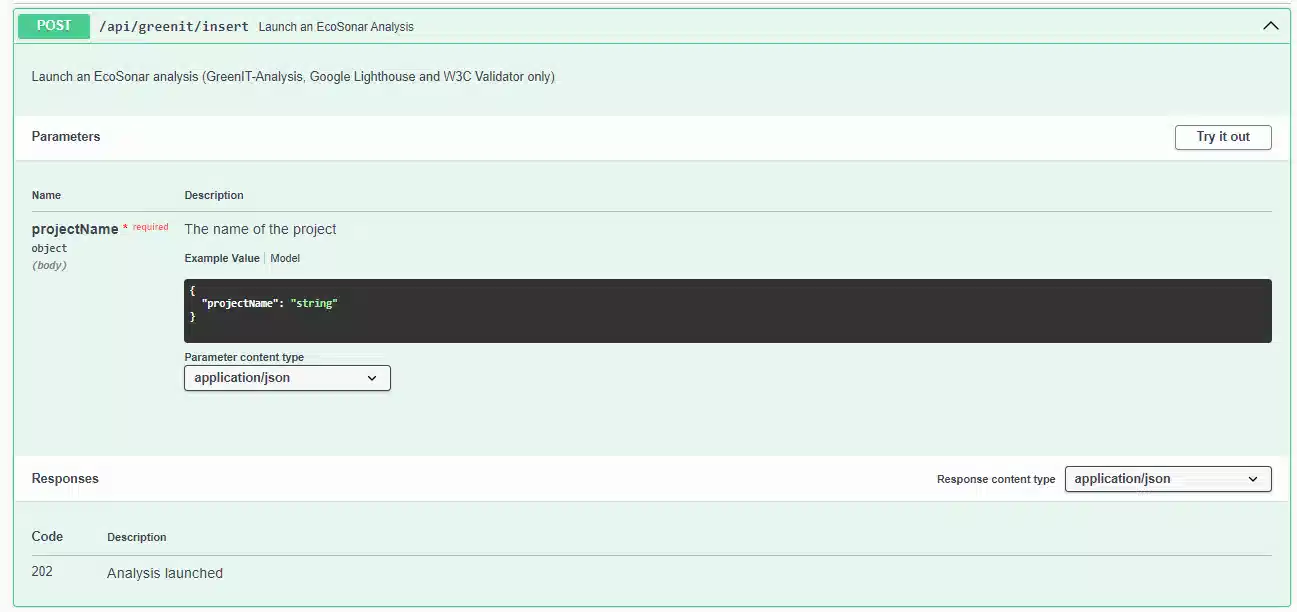
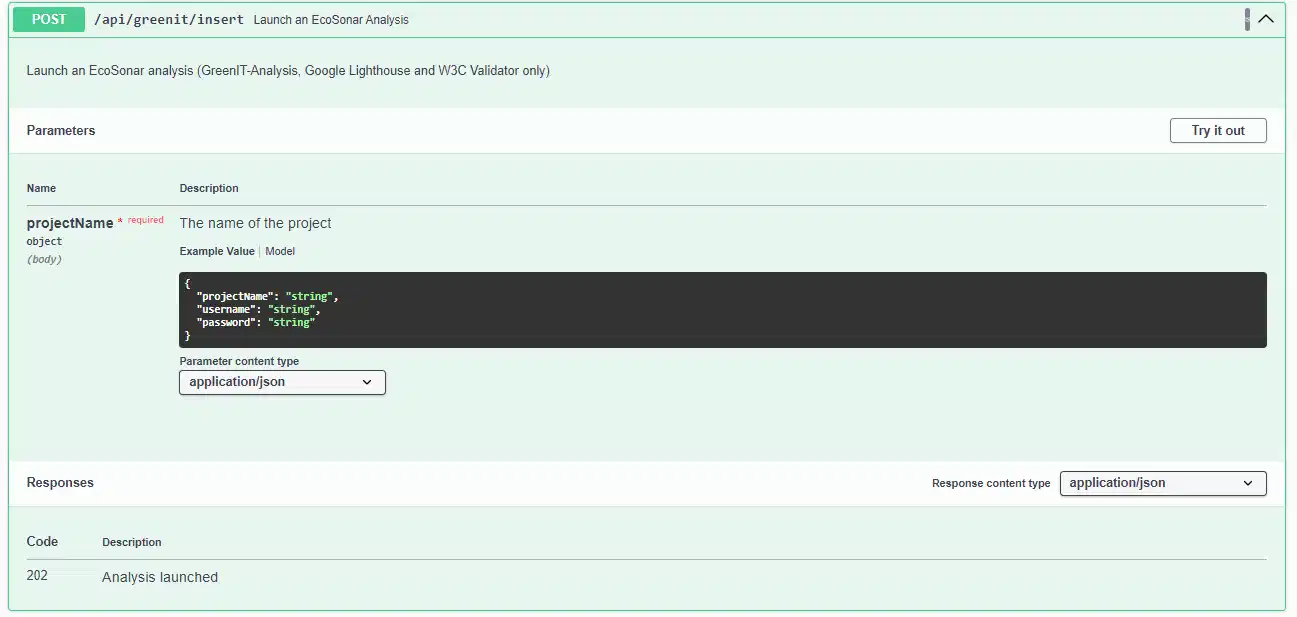
feat(3.5): add documentation related to v3.5

Changed region(s): [[0.0, 0.0, 1.0, 0.9935]]

diff --git a/USER_GUIDE.md b/USER_GUIDE.md
@@ -58,49 +58,18 @@ Thanks to a configuration popup, you can enter manually the pages to audit. This
 In order to audit pages that can be accessed only through an authentication service (intranet pages for example),
 you need to add authentication credentials into EcoSonar API to allow auditing dedicated pages.
 
-### When you have a simple login flow : username, password and click on a button
-
-#### EcoSonar V2.3 and below
-
-To implement that, you can create a YAML file login.yaml at the root of the folder `EcoSonar-API` and use the following format
-if the CSS selector of you input field is `input[name=username]` or `input[type=email]`, password field `input[name=password]`, `input[type=password]`, `input[id=password]` and button `button[type=submit]` :
-
-```
-authentication_url: authenticationPage
-username: yourUsername
-password: yourPassword
-```
-
-or if one of the CSS Selector does not match the default CSS Selectors :
-
-```
-authentication_url:authenticationPage
-username: yourUsername
-password: yourPassword
-loginButtonSelector: CSS_Selector_Button
-usernameSelector: CSS_Selector_Login
-passwordSelector: CSS_Selector_Password
-```
-
-##### CSS Selectors
-
-CSS Selectors are patterns in HTML code to apply some style (doc ). For exemple, to find the css selector of  loginButtonSelector:
-Go to the login page of your website
-Right click on the login button
-Select inspect
-Choose css selectors you want (class, type, name, id, ....)
-
-More Information :
-
-documentation: https://github.com/cnumr/GreenIT-Analysis-cli/blob/072987f7d501790d1a6ccc4af6ec06937b52eb13/README.md#commande
-code: https://github.com/cnumr/GreenIT-Analysis-cli/blob/072987f7d501790d1a6ccc4af6ec06937b52eb13/cli-core/analysis.js#L198
-
-#### EcoSonar V3.0 and above
-
 You can directly configure your login credentials at a project level in the API.
-Be careful your login credentials will then be saved into the database, please check with your security team if you are allowed to do so.
+You can use the Endpoint "Save Login For Project".
 
-You can use the Endpoint "Save Login and Proxy" and enter the following body:
+You can have the 3 following options to configure the authentication.
+For each option, according to your security requirements, you can choose to either set the flow to login with the password and username in clear in the database. Or you can set the username and password only when analysing a project or crawling the website.
+
+![EcoSonar Authentication config](./images/ecosonar-configure-auth.webp)
+
+### When you have a simple login flow : username, password and click on a button with the CSS Selectors identified
+
+
+if the CSS selector of you input field is `input[name=username]` or `input[type=email]`, password field `input[name=password]`, `input[type=password]`, `input[id=password]` and button `button[type=submit]` :
 
 ```
 {
@@ -112,7 +81,9 @@ You can use the Endpoint "Save Login and Proxy" and enter the following body:
 }
 ```
 
-or
+`username`and `password` are optional and can be set only if it is allowed to save them in clear in database.
+
+### When you have a simple login flow : username, password and click on a button with not identified CSS Selectors
 
 ```
 {
@@ -127,20 +98,22 @@ or
 }
 ```
 
+`username`and `password` are optional and can be set only if it is allowed to save them in clear in database.
+
 ### More complicated Login flows
 
-When the Username and password are not in the same page, or you need other user inputs to complete authentication
+When the Username and password are not in the same page, or you need other user inputs to complete authentication.
 
-#### EcoSonar V2.3 and below
+```
+{
+    "login": {
+        "authentication_url":  "authenticationPage",
+        "steps" : [ ....]
+    }
+}
+```
 
-If the authentication of the website required steps or a page change, you must follow these requirements:
-
-1. Create a YAML file login.yaml at the root of the repo
-2. Add authentication_url key and value is required
-3. Add steps key is required
-4. Fill steps part as follow
-
-To choose you authentification_url, you can either set it to the page in which you need to perform the authentification steps or pick the page that can only be accessed after being authenticated.
+To choose your authentification_url, you can either set it to the page in which you need to perform the authentification steps or pick the page that can only be accessed after being authenticated.
 
 (To help you to create steps, you can use on Google Chrome Tool "Recorder". (inspector -> recorder -> start a new recording) and save json file, then you can extract steps type, target, selectors)
 
@@ -155,44 +128,73 @@ Each step is a description of an action made by a regular user:
   value: value of the password or username (required)
   /!\ CSS Selectors with "aria" label are not read by EcoSonar.
 
-Example of login.yaml file. to access into an account
-
-```
-authentication_url: authenticationPage
-steps:
-  -   type: "click"
-      selectors:
-          - "#input-email"
-  -   type: "change"
-      value: "my email"
-      selectors:
-          - "#input-email"
-  -   type: "click"
-      selectors:
-        - "#lookup-btn"
-  -   type: "change"
-      value: "my password"
-      selectors:
-          - "#input-password"
-  -   type: "click"
-      selectors:
-        - "#signin-button"
-```
-
-#### EcoSonar V3.0 and above
-
-You can use directly to configure your login credentials at a project level in the API.
-
-You can use the Endpoint "Save Login and Proxy" and enter the following body:
+Example of a user flow to authenticate !
 
 ```
 {
-    "login": {
-        "authentication_url":  "authenticationPage",
-        "steps" : [ ....]
-    }
+  "login": {
+    "authentication_url": "authenticationPage",
+    "steps": [
+         {
+          "type": "click",
+          "selectors": [
+            [
+              "#input-email"
+            ]
+          ],
+        },
+        {
+          "type": "change",
+          "value": "%USERNAME%",
+          "selectors": [
+            [
+              "#input-email"
+            ]
+          ],
+        },
+        {
+          "type": "click",
+          "selectors": [
+            [
+              "#lookup-btn"
+            ]
+          ],
+        },
+        {
+          "type": "change",
+          "value": "%PASSWORD%",
+          "selectors": [
+            [
+              "#input-email"
+            ]
+          ],
+        },
+        {
+          "type": "click",
+          "selectors": [
+            [
+              "#signin-button"
+            ]
+          ],
+        }
+    ]
+  }
 }
 ```
+
+#### CSS Selectors
+
+CSS Selectors are patterns in HTML code to apply some style (doc ). For exemple, to find the css selector of  loginButtonSelector:
+Go to the login page of your website
+Right click on the login button
+Select inspect
+Choose css selectors you want (class, type, name, id, ....)
+
+More Information :
+
+documentation: https://github.com/cnumr/GreenIT-Analysis-cli/blob/072987f7d501790d1a6ccc4af6ec06937b52eb13/README.md#commande
+code: https://github.com/cnumr/GreenIT-Analysis-cli/blob/072987f7d501790d1a6ccc4af6ec06937b52eb13/cli-core/analysis.js#L198
+
 
 <a name="proxy"></a>
 
@@ -336,19 +338,7 @@ We are handling into EcoSonar 4 kind of browser interactions :
 
 ### User Flow Integration
 
-#### EcoSonar v2.3 and below
-
-Once you have been able to define the JSON file matching to your user flow, you can followed instructions:
-
-1. Create a folder "userJourney" if it does not exists yet at the root of the folder `EcoSonar-API`.
-2. Paste JSON file created in the folder "userJourney" and rename it with the URL you wish to audit. Please remove the following special character `:` `?` `:` `/` from the URL in order to save the JSON. To retrieve the user flow we are matching it with the URL registered through EcoSonar URL Configuration. This step is not to forget otherwise EcoSonar won't be auditing the right page.
-3. Deploy EcoSonar-API with all relevant user flows.
-4. Launch a new EcoSonar audit to verify there are no technical errors in the logs application. Correct them if needed.
-
-#### EcoSonar v3.0 and above
-
-With version 3.0, you can directly configure the user flow in the API provided (no longer need to reboot the instance)
-You can use the Endpoint "Save User Flow" and enter the following body:
+Once you have been able to define the JSON file matching to your user flow, you can use the Endpoint "Save User Flow" and enter the following body:
 
 ```
 {

diff --git a/API.md b/API.md
@@ -244,11 +244,15 @@ None
   PROJECT_NAME should match to the Project Key defined in your Sonarqube Project.
   homepage_url is the home page of your website from where the crawler will start finding all pages within your website
   save is a boolean value : if true, results will be saved in datatabse and pages will be audited by EcoSonar. If false, they will be saved in a temporary collection to be reviewed by a user before being applied in EcoSonar configuration.
+  username is the username of the technical account to login into your project. You should before launch crawler set the login configuration for the project.
+  password is the password of the technical account.
 
 `{
     "projectName": "PROJECT_NAME",
-    "mainUrl": "homepage_url"
-    "saveUrls": "save"
+    "mainUrl": "homepage_url",
+    "saveUrls": "save",
+    "username": "username",
+    "password": "password"
 }`
 
 - **Success Response:**
@@ -706,9 +710,13 @@ EcoSonar analysis is launched through this API call either directly with a curl 
 - **Data Params**
 
   PROJECT_NAME should match to the Project Key defined in your Sonarqube Project.
+  username is the username of the technical account to login into your project. You should before launch an analysis set the login configuration for the project.
+  password is the password of the technical account.
 
   `{
-    "projectName" : "PROJECT_NAME"
+    "projectName" : "PROJECT_NAME",
+    "username": "username",
+    "password": "password"
 }`
 
 - **Success Response:**

diff --git a/CHANGELOG.md b/CHANGELOG.md
@@ -4,6 +4,29 @@ All notable changes to this project will be documented in this file.
 
 The format is based on [Keep a Changelog](https://keepachangelog.com/en/1.0.0/).
 
+## Version 3.5 , 18/03/2024
+
+### Added
+
+- Include in the API to launch an EcoSonar analysis and the crawling the username and password used for the project (avoid to have login details saved in clear in database)
+- Integrate Ecocode plugins with latest release
+- Include Helmet configuration
+
+
+### Removed
+
+- yaml configuration for authentication and user flow
+
+### Changed
+
+- Update save login configuration for multi pages to not save in clear username and password (use instead %USERNAME% AND %PASSWORD%)
+- Update EcoSonar-API components to their latest versions
+- Move all API Endpoints to return 200 with empty list or object instead of 400 error code with a message error
+- Review all logging messages
+- Fix security vulnerabilities on code (CodeQL)
+
+---
+
 ## Version 3.4 , 11/01/2024
 
 ### Added

diff --git a/EcoSonar-API/README.md b/EcoSonar-API/README.md
@@ -232,7 +232,7 @@ ECOSONAR_ENV_USER_JOURNEY_ENABLED = `true`or `false`
 
 ### Prerequisites
 
-- Node.js https://nodejs.org/fr/ (at least v16)
+- Node.js https://nodejs.org/fr/ (at least v18)
 
 <a name="installation-node"></a>
 
